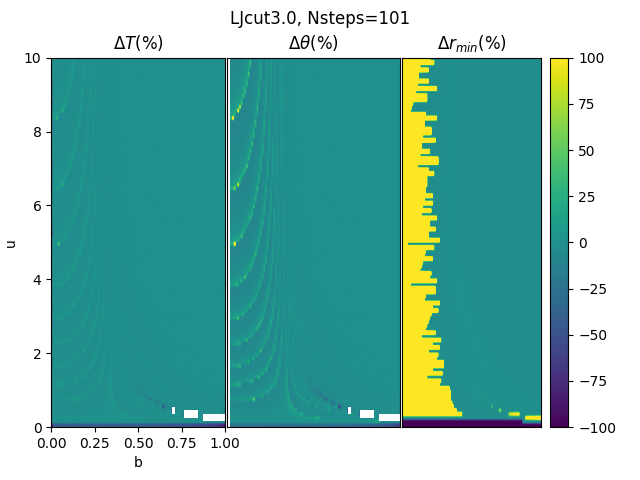
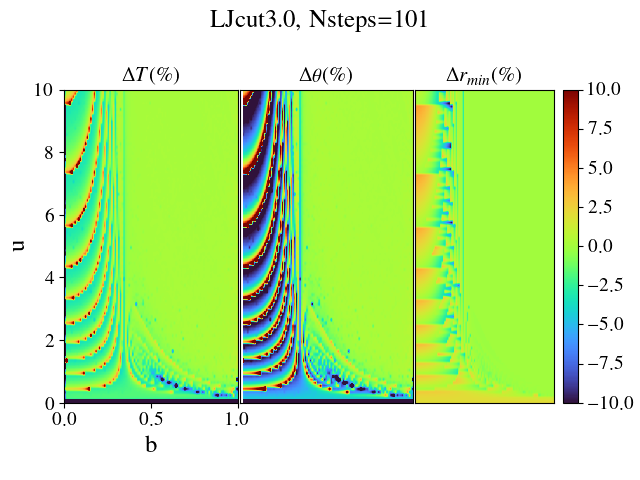
Fixed bugs in trajectory computation

diff --git a/Core/Trajectory.cpp b/Core/Trajectory.cpp
@@ -1,6 +1,4 @@
 // Update documentation
-// Test the trajectories wrt other codes
-// Trajectories are inaccurate. Must implement RK4 or higher order integration
 
 template <typename T = double>
 T rDotSquared(T r, T params[], Potential<T> V)
@@ -18,7 +16,7 @@ T rDotSquared(T r, T params[], Potential<T> V)
 
 
 template <typename T = double>
-T BisectionRmin(T params[], T rhi, T dr, Potential<T> V)
+T BisectionRmin(T params[], T rhi, T dr, Potential<T> V, T rlo=0)
 {
     /*
     Finds the root of (dr/dt)^2 function using the bisection method
@@ -27,7 +25,7 @@ T BisectionRmin(T params[], T rhi, T dr, Potential<T> V)
     Returns the upper estimate so as to avoid the classically forbidden region
     */
     
-    T rlo = 0, rmin;
+    T rmin;
     
     while(rhi - rlo > dr)
     {
@@ -48,6 +46,37 @@ T BisectionRmin(T params[], T rhi, T dr, Potential<T> V)
         }
     }
     return rmin;
+}
+
+
+template <typename T = double>
+T NRRmin(T params[], T rmin, T dr, Potential<T> V)
+{
+    /*
+    Finds the root of (dr/dt)^2 function using the Newton-Raphson method
+    Resolution is V.dr
+    */
+    
+    T rat, f, dfdr;
+    int i = 0, maxiter=100;
+    
+    do
+    {
+        f = rDotSquared(rmin, params, V);
+        dfdr = (f - rDotSquared(rmin - dr, params, V)) / dr;
+        rat = f / dfdr;
+        rmin -= rat;
+        i++;
+        if(i > maxiter) return -1;
+    } while(fabs(rat) > dr);
+    
+    if(rDotSquared(rmin, params, V) > 0) return rmin;
+    else if(rDotSquared(rmin+dr, params, V) > 0) return rmin + dr;
+    else
+    {
+        std::cout << "Wut?" << std::endl;
+        return -1;
+    }
 }
 
 
@@ -239,6 +268,13 @@ class Trajectory
             T u2 = u * u, ub = u * b, u2b2 = ub * ub, two_by_m = 2.0 / m;
             T params[4] = {u2, ub, u2b2, two_by_m};
             
+            /*if(rDotSquared(V.Rsteps[0]-dr/2, params, V) > rDotSquared(V.Rsteps[0]-dr, params, V))
+            {
+                ContRmin = NRRmin(params, V.Rsteps[0]-dr/2, dr, V);
+                if(ContRmin < 0) ContRmin = BisectionRmin(params, V.Rsteps[0], dr, V);
+            }
+            else
+                ContRmin = BisectionRmin(params, V.Rsteps[0], dr, V);*/
             ContRmin = BisectionRmin(params, V.Rsteps[0], dr, V);
             
             //std::cout << "ContRmin = " << ContRmin << std::endl;
@@ -263,23 +299,41 @@ class Trajectory
             ContDth[0] = 0; // Initial theta = 0 by choice
             
             T Dt, Dth;
-            
-            for(int i=1; i<Ntraj-1; i++)
+            int i;
+            for(i=1; i<Ntraj-1; i++)
             {
                 Dt = 0;
                 Dth = 0;
                 AdRK4Integrator<T>(params, V.Rsteps[i-1], V.Rsteps[i], dr, V, Dt, Dth);
+                if(isnan(Dt) || isnan(Dth)) break;
                 ContR[i] = V.Rsteps[i];
                 ContDt[i] = Dt;
                 ContDth[i] = Dth;
             }
             
-            Dt = 0;
-            Dth = 0;
-            AdRK4Integrator<T>(params, V.Rsteps[Ntraj-2], ContRmin, dr, V, Dt, Dth);
-            ContR[Ntraj-1] = ContRmin;
-            ContDt[Ntraj-1] = Dt;
-            ContDth[Ntraj-1] = Dth;
+            if(isnan(Dt) || isnan(Dth))
+            {
+                ContRmin = BisectionRmin(params, V.Rsteps[i-1], dr, V, V.Rsteps[i]);
+                Dt = 0;
+                Dth = 0;
+                AdRK4Integrator<T>(params, V.Rsteps[i-1], ContRmin, dr, V, Dt, Dth);
+                ContR[i] = ContRmin;
+                ContDt[i] = Dt;
+                ContDth[i] = Dth;
+                
+                ContR.erase(ContR.begin()+i+1, ContR.end());
+                ContDt.erase(ContDt.begin()+i+1, ContDt.end());
+                ContDth.erase(ContDth.begin()+i+1, ContDth.end());
+            }
+            else
+            {
+                Dt = 0;
+                Dth = 0;
+                AdRK4Integrator<T>(params, V.Rsteps[Ntraj-2], ContRmin, dr, V, Dt, Dth);
+                ContR[Ntraj-1] = ContRmin;
+                ContDt[Ntraj-1] = Dt;
+                ContDth[Ntraj-1] = Dth;
+            }
         }
         
 
@@ -314,7 +368,11 @@ class Trajectory
                 r1_sq = V.Rsteps[i-1] * V.Rsteps[i-1];
                 r2_sq = V.Rsteps[i] * V.Rsteps[i];
                 k1i_sq = 1 / (u2 - 2.0 / m * V.Vsteps[i]);
-                if(k1i_sq <= 0) break;
+                if(k1i_sq <= 0)
+                {
+                    DiscRmin = V.Rsteps[i-1];
+                    break;
+                }
                 
                 k1i = sqrt(k1i_sq);
                 k2i = ub * ub * k1i_sq;

diff --git a/Core/CalculateTrajectories.cpp b/Core/CalculateTrajectories.cpp
@@ -16,7 +16,7 @@ int main()
     std::ofstream disc("./disc_traj.txt", std::ios::out);
     
     Potential<double> V;
-    double u=0.5, b=0.2, m=1.0, dr = 1e-6;
+    double u=0.2, b=0.9, m=1.0, dr = 1e-6;
     b *= V.Rcut;
     
     V.Nsteps = 101;
@@ -24,13 +24,15 @@ int main()
     V.Rsteps[V.Nsteps-1] += dr;
     for(int i=0; i<V.Nsteps; i++) V.Vsteps.push_back(V.Continuous(V.Rsteps[i]));
     
-    //for(int i=0; i<V.Nsteps; i++) std::cout << V.Rsteps[i] << " " << V.Vsteps[i] << std::endl;
+    //double param[4] = {u*u, u*b, u*u*b*b, 2/m};
+    //for(int i=0; i<V.Nsteps; i++) std::cout << V.Rsteps[i] << " " << rDotSquared(V.Rsteps[i], param, V) << std::endl;
     
     
     auto start = std::chrono::high_resolution_clock::now();
     
     Trajectory<double> traj(V, u, b, m, dr);
     traj.ComputeTrajectories();
+    std::cout << traj.ContRmin << " " << traj.DiscRmin << std::endl;
     
     for(int i=0; i<traj.ContR.size(); i++) cont << std::defaultfloat << traj.ContR[i] << " " << std::scientific << traj.ContDt[i] << " " << traj.ContDth[i] << std::endl;
     for(int i=0; i<traj.DiscR.size(); i++) disc << std::defaultfloat << traj.DiscR[i] << " " << std::scientific << traj.DiscDt[i] << " " << traj.DiscDth[i] << std::endl;

diff --git a/Plots/EPD_analysis.py b/Plots/EPD_analysis.py
@@ -1,5 +1,6 @@
 import numpy as np
 import matplotlib.pyplot as plt
+from myplotsettings import *
 
 Nsteps = 11
 fname_base = 'epd_LJ_Nsteps_%d' % Nsteps
@@ -8,29 +9,32 @@ while f.readline()[:3] != 'u b': True;
 data = np.loadtxt(f)
 f.close()
 
+clim = [-10,10]
+
 plt.subplot(131)
 plt.imshow(np.reshape(data[:,7],(100,100)), origin='lower', extent=[0,1,0,10], aspect='auto')
 plt.xlabel('b')
 plt.ylabel('u')
 plt.title(r'$\Delta T (\%)$')
-plt.clim([-100,100])
+plt.clim(clim)
 
 plt.subplot(132)
 plt.imshow(np.reshape(data[:,10],(100,100)), origin='lower', extent=[0,1,0,10], aspect='auto')
 plt.title(r'$\Delta \theta (\%)$')
 plt.xticks([])
 plt.yticks([])
-plt.clim([-100,100])
+plt.clim(clim)
 
 plt.subplot(133)
 plt.imshow(np.reshape(data[:,4],(100,100)), origin='lower', extent=[0,1,0,10], aspect='auto')
 plt.title(r'$\Delta r_{min} (\%)$')
 plt.xticks([])
 plt.yticks([])
-plt.clim([-100,100])
+plt.clim(clim)
 plt.colorbar()
 
 plt.suptitle('LJcut3.0, Nsteps=%d' % Nsteps)
-plt.subplots_adjust(wspace=0.01, left=0.08)
+plt.tight_layout()
+plt.subplots_adjust(wspace=0.01, left=0.1, right=0.92)
 plt.savefig(fname_base + ".png")
 plt.show()

diff --git a/Plots/myplotsettings.py b/Plots/myplotsettings.py
@@ -1,0 +1,25 @@
+from matplotlib import rc, rcParams
+rc_params = {'axes.labelsize': 18,
+             'axes.titlesize': 15,
+             'font.size': 15,
+             'lines.linewidth' : 2,
+             'legend.fontsize': 12,
+             'xtick.labelsize': 14,
+             'ytick.labelsize': 14
+            }
+rcParams.update(rc_params)
+
+rc('text.latex', preamble='\\usepackage{txfonts}')
+rc('text', usetex=True)
+rc('font', family='serif')
+rc('font', serif='times')
+rc('mathtext', default='sf')
+rc('lines', markeredgewidth=1)
+rc('lines', linewidth=2)
+rc('image', cmap='turbo')
+
+myc = ['blue', 'orange', 'green', 'red', 'lawngreen', 'magenta', 'cyan', 'yellow', 'k']
+myls = ['-', '--', ':', '-.', (0, (1, 10)), (0, (5, 10)), (0, (3, 10, 1, 10)), (0, (3, 5, 1, 5, 1, 5)), '-', '--']
+mym = ['.', '+', '*', 's', 'x', 'v', 'o', '2', '.', '+']
+
+cornerplot_settings = {'levels':[0.1,0.5,0.9], 'smooth':0.9, 'plot_datapoints':False, 'plot_density':False, 'fill_contours':True, 'plot_contours':True}

diff --git a/Core/EndPointDeviation.cpp b/Core/EndPointDeviation.cpp
@@ -54,7 +54,8 @@ int main()
             << std::endl;
         }
         auto elap = std::chrono::duration_cast<std::chrono::microseconds>(std::chrono::high_resolution_clock::now() - start);
-        std::cout << (u - umin) / (umax - umin) * 100.0 << "% done. Elapsed time (s) : " << elap.count()/1e6 << "\r";
+        std::cout << (u - umin) / (umax - umin) * 100.0 << "% done. Elapsed time (s) : " << elap.count()/1e6 << std::endl;
+        //std::cout << (u - umin) / (umax - umin) * 100.0 << "% done. Elapsed time (s) : " << elap.count()/1e6 << "\r";
     }
     epd.close();
     return 0;
